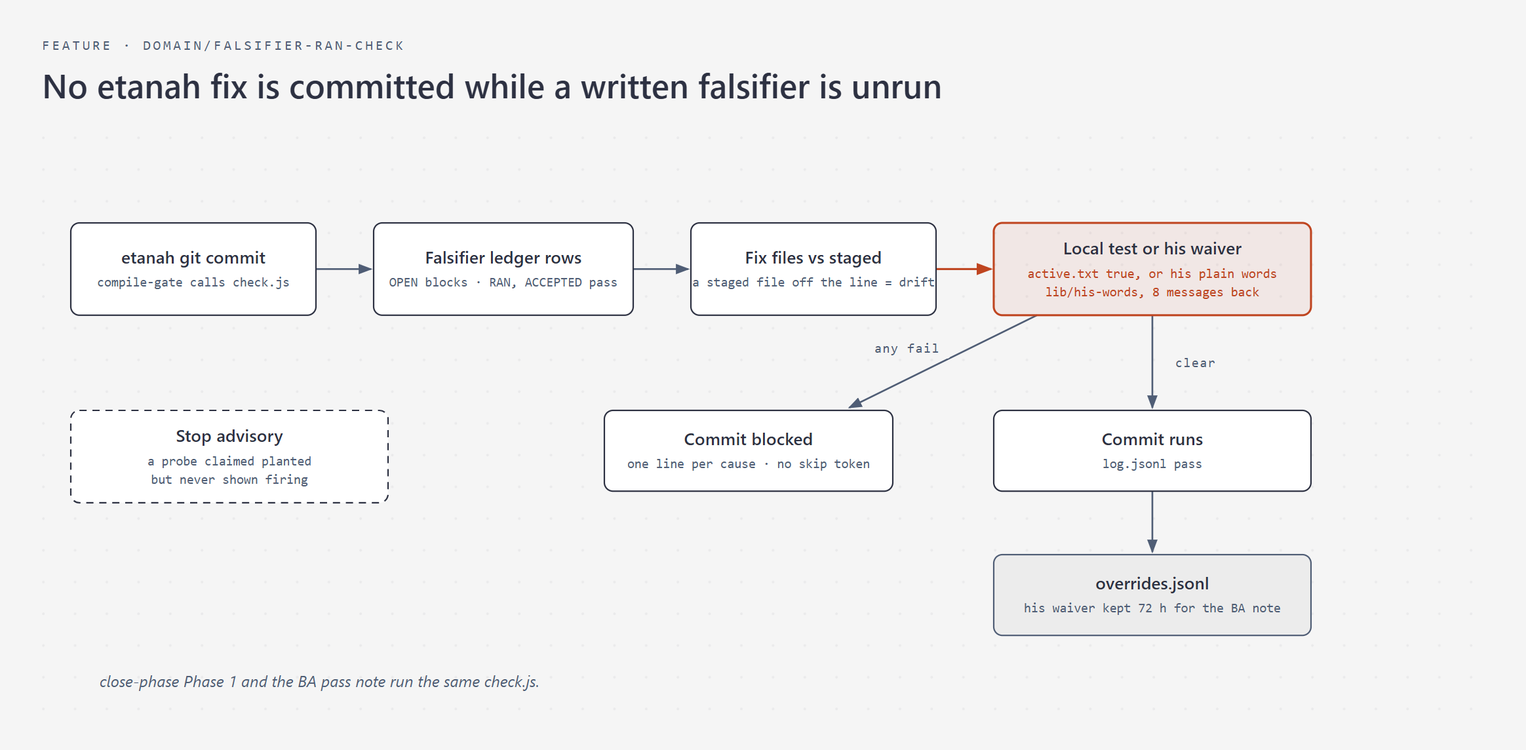
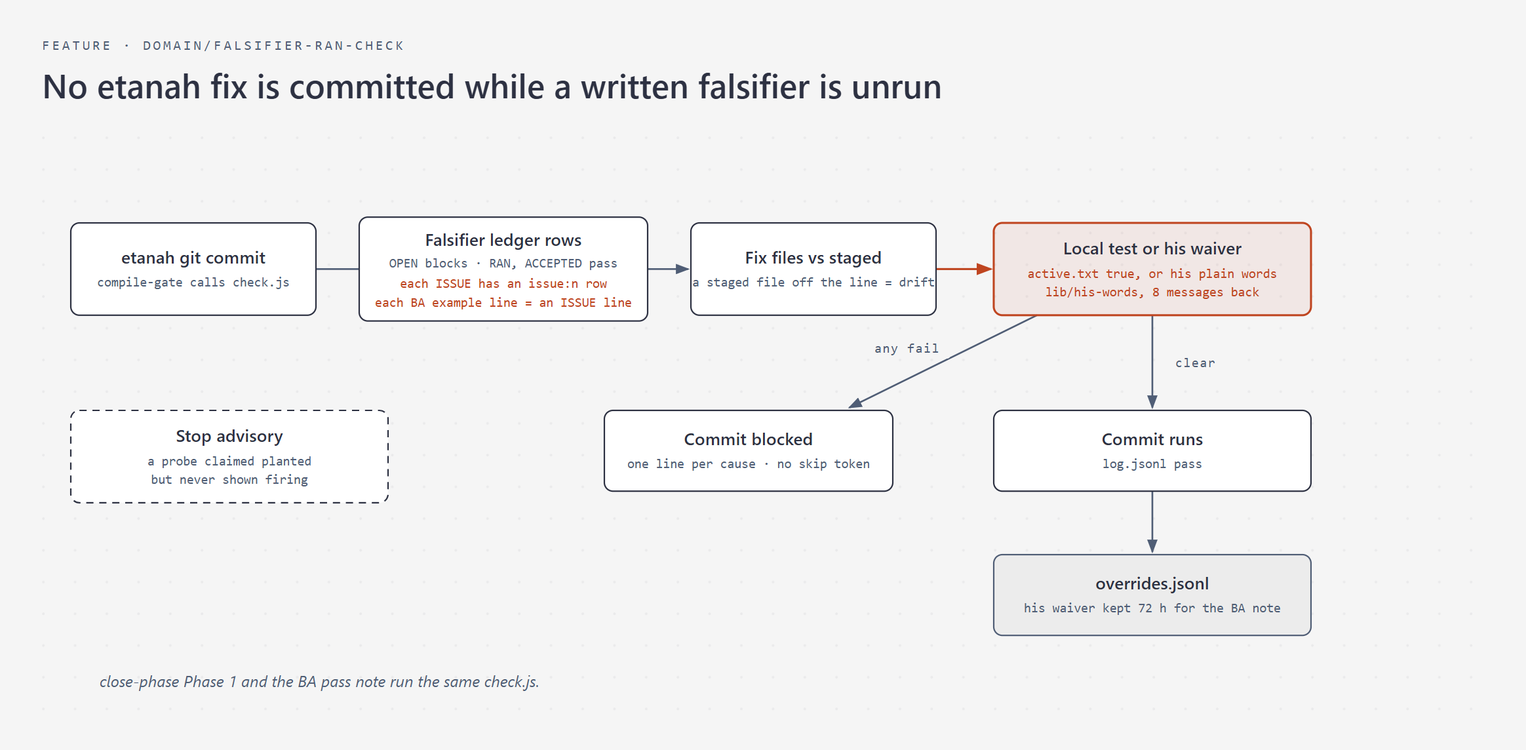
quest hand-back gap (261986): each ISSUE named by a ledger row, each BA example line its own ISSUE line; manifest reads every PDF note and the newest BA note in full (landed from d6f05947)

Changed region(s): [[0.2165, 0.2753, 0.433, 0.4283]]

diff --git a/domain/falsifier-ran-check/check.eval.js b/domain/falsifier-ran-check/check.eval.js
@@ -46,7 +46,7 @@ const RUBRIC = [
 const HEAD0 = '## Falsifier ledger\n\nFix files: BasePelupusanDokumenForm.java, MlkKertasTemplateForm.java\n\n| # | design | falsifier | cheapest test | status |\n|---|---|---|---|---|\n';
 const STAND = ['path', 'siblings', 'render', 'given', 'env'].map((k, i) => `| ${91 + i} | standing: ${k} | ${k} gap | ${k} run | RAN: ${k} checked on the BA ID, nothing found |\n`).join('');
 const HEAD = HEAD0 + STAND; // every ledger carries the five standing rows (2026-11-10)
-const row = (n, status, f) => `| ${n} | same-content compare | ${f || 'Word no-change save changes body XML beyond rsid/paraId'} | Word COM re-save of a template + compare | ${status} |\n`;
+const row = (n, status, f) => `| ${n} | issue:1 same-content compare | ${f || 'Word no-change save changes body XML beyond rsid/paraId'} | Word COM re-save of a template + compare | ${status} |\n`;
 const doc = body => fs.writeFileSync(DOC, RUBRIC + body);
 const cli = args => spawnSync(process.execPath, [CHECK, ...args], { encoding: 'utf8', env: { ...process.env, ...ENV }, timeout: 30000 });
 function transcript(name, entries) {
@@ -244,6 +244,48 @@ r = ev(GOOD0 + FIVE(RAN5, 'OPEN — after the deploy'), { needLedger: true, stan
 ok('S17 "OPEN — after the deploy" spelling waits too', r.fails.length === 0, kinds(r));
 active('true'); doc((HEAD + row(1, 'RAN: 2026-10-04 re-save run, compare unchanged')).replace('RAN: env checked on the BA ID, nothing found', 'OPEN: after deploy')); r = cli(['QA-244600']);
 ok('S18 cli clear line names the rows waiting after deploy', r.status === 0 && /1 waiting after deploy/.test(r.stdout), r.status + ' ' + r.stdout.slice(0, 160));
+
+// ── G4-G11 + X1-X5 (2026-11-17, 261986): each ISSUE named by a ledger row; each line of the BA's example block its own ISSUE line ──
+const R261 = '# QA-261986\n\nISSUE|1|item 3 format|JT row layout as BA example\nISSUE|2|item 6 at Penyediaan PTG|items 1-6 on first open\n\n';
+const ITEM6 = '| 1 | issue:2 regenerate on PTG first open | PSBS never meets the guard | read guard + MLIT ind_tgsn | RAN: guard needs PRMMKNPTG, present on MLIT PSBS |\n';
+const ev2 = (body, o) => C.evaluate(R261 + HEAD0 + body, Object.assign({ needLedger: true, standing: true, ctx: 'commit' }, o || {}));
+const GIVEN_SENT = 'RAN: ISSUE 2 fixed and tested; ISSUE 1 is still being checked';
+const FIVE2 = g => st(2, 'path', RAN5) + st(3, 'siblings', RAN5) + st(4, 'render', RAN5) + st(5, 'given', g || RAN5) + st(6, 'env', RAN5);
+r = ev2(ITEM6 + FIVE2(GIVEN_SENT));
+ok('G4 REPLAY 261986 (5 Nov): ISSUE 1 has no row, given says "still being checked" → issue-unanswered', kinds(r) === 'issue-unanswered' && /ISSUE 1 /.test(r.fails[0].msg), kinds(r));
+r = ev2(ITEM6 + '| 7 | issue:1 JT row layout | line break lost | doc-sim + PDF compare | OPEN |\n' + FIVE2());
+ok('G5 ISSUE 1 named by an OPEN row → open at the commit', kinds(r) === 'open', kinds(r));
+r = ev2(ITEM6 + '| 7 | issue:1 JT row layout | line break lost | doc-sim + PDF compare | OPEN |\n' + FIVE2(), { ctx: 'note' });
+ok('G5n same at the BA note → open', kinds(r) === 'open', kinds(r));
+r = ev2(ITEM6 + '| 7 | issue:1 JT row layout | line break lost | doc-sim | ACCEPTED-RISK: "pass item 6 first, item 3 next round" miya 2026-11-05 |\n' + FIVE2());
+ok('G5a ISSUE 1 row ACCEPTED-RISK with his words → passes', r.fails.length === 0, kinds(r));
+r = ev2('| 1 | issue:1,2 both items | gap | run | RAN: doc-sim both items on BA ID |\n' + FIVE2());
+ok('G6 clean: one row names issue:1,2 → passes', r.fails.length === 0, kinds(r));
+r = ev2('| 1 | issue:11 other | gap | run | RAN: doc-sim on the BA ID, output matched her example |\n| 2 | issue:2 x | gap | run | RAN: doc-sim on the BA ID, output matched her example |\n' + FIVE2());
+ok('G7 issue:11 does not answer ISSUE 1 → issue-unanswered ×1', kinds(r) === 'issue-unanswered', kinds(r));
+r = ev2(ITEM6 + FIVE2('RAN: n/a — no BA list on this ticket'));
+ok('G7b given RAN: n/a with a reason → no issue check', r.fails.length === 0, kinds(r));
+r = ev2(ITEM6 + FIVE2('OPEN'));
+ok('G7c given OPEN → only open, no issue-unanswered', kinds(r) === 'open', kinds(r));
+const BA6 = ['3.1 Majlis Bandaraya Melaka Bersejarah', '(Ruj. Surat : <No. Rujukan Surat> bertarikh <Tarikh Surat>)', '<Jabatan Teknikal> memaklumkan bahawa <Keputusan> terhadap permohonan ini.', 'Ulasan jabatan adalah seperti berikut:', 'JABATAN INI MENYOKONG DENGAN SYARAT. TEST 1'];
+const GOOD6 = '| 1 | issue:1,2 both | gap | run | RAN: doc-sim on the BA ID, output matched her example |\n' + FIVE2();
+r = ev2(GOOD6, { baLines: BA6 });
+ok('G8 REPLAY 261986: BA example lines, ISSUE 1 retyped as one line → given-line-missing (5)', kinds(r) === 'given-line-missing' && /5 line\(s\)/.test(r.fails[0].msg) && /3\.1 Majlis/.test(r.fails[0].msg), kinds(r) + ' ' + (r.fails[0] || {}).msg);
+const R6 = R261 + BA6.map((l, i) => `ISSUE|${i + 3}|item 3 example line ${i + 1}|${l}`).join('\n') + '\n\n';
+r = C.evaluate(R6 + HEAD0 + '| 1 | issue:1,2,3,4,5,6,7 all | gap | run | RAN: doc-sim on the BA ID, output matched her example |\n' + FIVE2(), { needLedger: true, standing: true, ctx: 'commit', baLines: BA6 });
+ok('G9 each example line is its own ISSUE line, named by a row → passes', r.fails.length === 0, kinds(r));
+const RJOIN = R261 + `ISSUE|3|l1|${BA6[0]}\nISSUE|4|l2+3|${BA6[1]} ${BA6[2]}\nISSUE|5|l4|${BA6[3]}\nISSUE|6|l5|${BA6[4]}\n\n`;
+r = C.evaluate(RJOIN + HEAD0 + '| 1 | issue:1,2,3,4,5,6 all | gap | run | RAN: doc-sim on the BA ID, output matched her example |\n' + FIVE2(), { needLedger: true, standing: true, ctx: 'commit', baLines: BA6 });
+ok('G10 lines 2 and 3 joined (the 5 Nov flattening) → given-line-missing (2)', kinds(r) === 'given-line-missing' && /2 line\(s\)/.test(r.fails[0].msg), kinds(r) + ' ' + (r.fails[0] || {}).msg);
+r = ev2(GOOD6, { baLines: [] });
+ok('G11 clean: no example block → passes', r.fails.length === 0, kinds(r));
+const J = (ts, who, role, notes) => `--- ${ts} by ${who} ---\n  [role] ${role}\n  notes:\n${notes.map(l => '    ' + l).join('\n')}\n\n`;
+const EXP = ['*Issue:*', '1) item 3 salah', '*Expected:*', '1) betul seperti contoh', '<pre>', '3.1 Majlis Bandaraya', '(Ruj. Surat : X bertarikh Y)', '<JT> memaklumkan bahawa Z', '</pre>', 'Session id:', '<pre>', 'not example', '</pre>'];
+ok('X1 <pre> under Expected → its 3 lines', C.exampleLines(J('2026-11-11T03:14:08Z', 'Nurul', 'BA', EXP)).length === 3, C.exampleLines(J('t', 'N', 'BA', EXP)));
+ok('X2 <pre> under Issue only → none', C.exampleLines(J('t', 'N', 'BA', ['*Issue:*', '<pre>', 'a line', '</pre>', '*Expected:*', 'words'])).length === 0);
+ok('X3 BA example older than our last note → none', C.exampleLines(J('t1', 'N', 'BA', EXP) + J('t2', 'Ridhwan', 'Developer', ['Salam, deployed'])).length === 0);
+ok('X4 <pre> in a Developer note → none', C.exampleLines(J('t', 'Ridhwan', 'Developer', EXP)).length === 0);
+ok('X5 <pre> after Session id → not counted (only the 3 under Expected)', C.exampleLines(J('t', 'N', 'BA', EXP)).every(l => l !== 'not example'));
 
 try { fs.rmSync(tmp, { recursive: true, force: true }); } catch (_) {}
 let failed = 0;

diff --git a/domain/falsifier-ran-check/check.js b/domain/falsifier-ran-check/check.js
@@ -50,6 +50,24 @@ const PLAIN_WAIVE_RX = new RegExp([
 ].join('|'), 'gi');
 const PLAIN_NEGATE_RX = /\b(?:don'?t|do not|never|not|cannot|can'?t|won'?t|jangan|tak|before|after|until|unless|if|whether)\b[^.?!\n]{0,30}$/i;
 const TICKET_NUM_RX = /(?<![\d/])\d{5,6}(?![\d/])/g;
+// The BA's example block of the current cycle: each non-empty line of a <pre> under an Expected marker, in a BA note
+// written after our last note (261986, 2026-11-05: a line break in her example was lost when it was retyped as one ISSUE line).
+const sq = s => String(s).replace(/\s+/g, ' ').trim();
+function exampleLines(history) {
+  const J = String(history || '').split(/^(?=--- \S+ by .+ ---\s*$)/m);
+  let from = 0; J.forEach((j, i) => { if (/^\s*\[role\]\s+Dev/mi.test(j) && /^\s*notes:\s*$/m.test(j)) from = i + 1; });
+  const out = [];
+  for (const j of J.slice(from)) {
+    if (!/^\s*\[role\]\s+BA\b/m.test(j)) continue;
+    let exp = false, pre = false;
+    for (const l of j.split(/\r?\n/)) {
+      if (/^\s*[*_+]*\s*(Issue|Session id)\b/i.test(l)) exp = false; else if (/^\s*[*_+]*\s*Expected\b/i.test(l)) exp = true;
+      if (/<\/?pre>/i.test(l)) { pre = /<pre>/i.test(l); continue; }
+      if (exp && pre && l.trim()) out.push(sq(l));
+    }
+  }
+  return [...new Set(out)];
+}
 
 // A worktree session shares the MAIN quest/active.txt and projects/ folder.
 function mainRoot(p) { return String(p).replace(/[\\/]\.claude[\\/]worktrees[\\/][^\\/]+[\\/]?$/i, ''); }
@@ -156,7 +174,16 @@ function evaluate(text, opts) {
   // A given row answered RAN writes its list first: one ISSUE|n|<item>|<expected> line per BA item and per value on the BA's file,
   // marked or not; the test table is counted against them (2026-11-17 per miya, 274323: an unmarked Wang Cagaran value was never read).
   const given = L.rows.find(r => /^[*`\s]*standing:\s*given\b/i.test(r.design || ''));
-  if (given && given.kind === 'ran' && !/RAN:\s*n\/?a\b/i.test(given.status) && !/^ISSUE\|\d+\|/m.test(String(text || ''))) fails.push({ kind: 'given-no-issues', msg: `row ${given.n} standing: given is RAN but the quest doc has no ISSUE|n|<item>|<expected> line: write one per BA item and per value on the BA's file, marked or not` });
+  const issueLines = String(text || '').match(/^ISSUE\|\d+\|.*$/mg) || [];
+  if (given && given.kind === 'ran' && !/RAN:\s*n\/?a\b/i.test(given.status)) {
+    if (!issueLines.length) fails.push({ kind: 'given-no-issues', msg: `row ${given.n} standing: given is RAN but the quest doc has no ISSUE|n|<item>|<expected> line: write one per BA item and per value on the BA's file, marked or not` });
+    // Each ISSUE owes a ledger row named issue:n (same shape as arrival:<id>), so a BA item not done is an OPEN row, never a sentence (261986).
+    for (const n of new Set(issueLines.map(s => s.split('|')[1]))) if (!L.rows.some(r => new RegExp('\\bissue:\\s*(?:\\d+\\s*,\\s*)*' + n + '\\b', 'i').test(r.design + ' ' + r.falsifier))) fails.push({ kind: 'issue-unanswered', msg: `ISSUE ${n} has no ledger row named issue:${n} (one row per BA item, several as issue:1,2): RAN with what was run, or miya's ACCEPTED-RISK` });
+    // Each line of the BA's example block is its own ISSUE line, in her words.
+    const exps = new Set(issueLines.map(s => sq(s.split('|').slice(3).join('|'))));
+    const miss = (o.baLines || []).filter(l => !exps.has(l));
+    if (miss.length) fails.push({ kind: 'given-line-missing', msg: `${miss.length} line(s) of the BA's example block are not ISSUE lines of their own, first: "${miss[0]}"` });
+  }
   if (o.staged && o.staged.length && !o.merge) {
     if (!L.fixFiles.length) fails.push({ kind: 'no-fix-files', msg: 'the ledger has no "Fix files:" line, so the staged files cannot be compared with the design' });
     else {
@@ -239,8 +266,10 @@ function check(qa, opts) {
     const doc = docFor(qa, block);
     const codeFix = ctx === 'commit' || !!o.codeFix;
     let res = { fails: [], rows: [], fixFiles: [] };
+    let baLines = [];   // the BA's example lines, from the ticket's own journal; no journal on this machine = no line check
+    try { baLines = exampleLines(fs.readFileSync(path.join(require(path.resolve(__dirname, '..', '..', 'lib', 'task-folder.js')).briefDir(block.task_folder), 'History.txt'), 'utf8')); } catch (_) {}
     if (!doc) { if (codeFix) res.fails.push({ kind: 'no-doc', msg: `no quest doc found for ${qa} (active.txt qa_doc=${block.qa_doc || '(empty)'})` }); }
-    else res = evaluate(fs.readFileSync(doc, 'utf8'), { needLedger: codeFix, staged: o.staged || null, merge: !!o.merge, ctx, standing: true });
+    else res = evaluate(fs.readFileSync(doc, 'utf8'), { needLedger: codeFix, staged: o.staged || null, merge: !!o.merge, ctx, standing: true, baLines });
     let override = null;
     if (codeFix || ctx === 'cli') {
       if (String(block.local_test_confirmed || '').toLowerCase() !== 'true') {
@@ -320,4 +349,4 @@ if (require.main === module) {
   process.exit(1);
 }
 
-module.exports = { check, evaluate, parseLedger, statusKind, gateCommit, captureOverride, recordedOverride, plainWaiver, message, ticketOf, mainRoot, readBlock, OVERRIDE_RX };
+module.exports = { check, evaluate, parseLedger, statusKind, gateCommit, captureOverride, recordedOverride, plainWaiver, message, exampleLines, ticketOf, mainRoot, readBlock, OVERRIDE_RX };

diff --git a/domain/falsifier-ran-check/diagram.html b/domain/falsifier-ran-check/diagram.html
@@ -41,9 +41,11 @@
       <rect x="20" y="60" width="170" height="64" rx="6" fill="#ffffff" stroke="#2d3142" stroke-width="1"/>
       <text x="105" y="88" fill="#2d3142" font-size="12" font-weight="600" font-family="'Segoe UI', Arial, sans-serif" text-anchor="middle">etanah git commit</text>
       <text x="105" y="104" fill="#4f5d75" font-size="9" font-family="Consolas, monospace" text-anchor="middle">compile-gate calls check.js</text>
-      <rect x="230" y="60" width="180" height="64" rx="6" fill="#ffffff" stroke="#2d3142" stroke-width="1"/>
-      <text x="320" y="88" fill="#2d3142" font-size="12" font-weight="600" font-family="'Segoe UI', Arial, sans-serif" text-anchor="middle">Falsifier ledger rows</text>
-      <text x="320" y="104" fill="#4f5d75" font-size="9" font-family="Consolas, monospace" text-anchor="middle">OPEN blocks · RAN, ACCEPTED pass</text>
+      <rect x="220" y="56" width="200" height="72" rx="6" fill="#ffffff" stroke="#2d3142" stroke-width="1"/>
+      <text x="320" y="76" fill="#2d3142" font-size="12" font-weight="600" font-family="'Segoe UI', Arial, sans-serif" text-anchor="middle">Falsifier ledger rows</text>
+      <text x="320" y="91" fill="#4f5d75" font-size="9" font-family="Consolas, monospace" text-anchor="middle">OPEN blocks · RAN, ACCEPTED pass</text>
+      <text x="320" y="105" fill="#bf4520" font-size="9" font-family="Consolas, monospace" text-anchor="middle">each ISSUE has an issue:n row</text>
+      <text x="320" y="118" fill="#bf4520" font-size="9" font-family="Consolas, monospace" text-anchor="middle">each BA example line = an ISSUE line</text>
       <rect x="450" y="60" width="170" height="64" rx="6" fill="#ffffff" stroke="#2d3142" stroke-width="1"/>
       <text x="535" y="88" fill="#2d3142" font-size="12" font-weight="600" font-family="'Segoe UI', Arial, sans-serif" text-anchor="middle">Fix files vs staged</text>
       <text x="535" y="104" fill="#4f5d75" font-size="9" font-family="Consolas, monospace" text-anchor="middle">a staged file off the line = drift</text>

diff --git a/quest/ticket-load-verify.eval.js b/quest/ticket-load-verify.eval.js
@@ -306,6 +306,19 @@ const baList = { ts: '2026-11-04T09:01:34Z', by: 'Eval BA', lines: ['  [role] BA
     check('(22) B3 no BA list yet → no ⚠, said in the line; --json carries patchScope', /0 ⚠ · no BA list naming a permohonan yet$/.test(scopeOut(r.out)) && j.patchScope && j.patchScope.warn === 0 && j.patchScope.rows.length === 4, scopeOut(r.out));
 }
 
+// (23) 261986 (2026-11-17): a note written after our last note prints every line, older notes keep one line
+{
+    const note = (...l) => ['  notes:', ...l.map(x => '    ' + x)];
+    const root = fixture({ status: 'Rework', cycles: [], entries: [
+        { ts: '2026-11-03T07:00:25Z', by: 'Nurul Amirah Nadiah', lines: note('Salam Ridhwan,', 'old ask second line') },
+        { ts: '2026-11-05T07:23:35Z', by: 'Ahmad Ridhwan Anuar (Dev PLP)', lines: note('Salam Mira, deployed.', 'Item 3 still being checked') },
+        { ts: '2026-11-11T03:14:08Z', by: 'Nurul Amirah Nadiah', lines: note('Salam Ridhwan,', '*Expected:*', '<pre>', '3.1 Majlis Bandaraya', '</pre>', '+*NOTE*+', 'Pending test for item 6') },
+    ] });
+    const r = run(root);
+    check('(23) newest BA note after our last note prints in full', /\| \*Expected:\*/.test(r.out) && /\| 3\.1 Majlis Bandaraya/.test(r.out) && /\| Pending test for item 6/.test(r.out), r.out.slice(0, 600));
+    check('(23b) notes before our last note keep their one line', !/old ask second line/.test(r.out) && !/\| Item 3 still being checked/.test(r.out), r.out.slice(0, 600));
+}
+
 let failed = 0;
 for (const x of results) { if (!x.pass) failed++; console.log((x.pass ? 'PASS' : 'FAIL') + '  ' + x.name + (x.pass ? '' : ' → ' + x.detail)); }
 console.log('\nticket-load-verify.eval: ' + (results.length - failed) + '/' + results.length + ' green');

diff --git a/quest/ticket-load-verify.js b/quest/ticket-load-verify.js
@@ -379,13 +379,16 @@ L.push(`\u2550\u2550\u2550 TICKET LOAD MANIFEST \u2014 #${num} \u2550\u2550\u255
 L.push(`folder : ${folder}${archived ? '   [ARCHIVED]' : ''}`);
 L.push(`synced : ${syncedAt || 'unknown'}   ·   ticket last updated: ${lastUpdated || 'unknown'}`);
 L.push('');
-L.push(`A. CONVERSATIONS \u2014 ${journals.length} journal entr${journals.length === 1 ? 'y' : 'ies'} (oldest first). Echo one line each.`);
+L.push(`A. CONVERSATIONS \u2014 ${journals.length} journal entr${journals.length === 1 ? 'y' : 'ies'} (oldest first). Echo one line each; a note after our last note prints in full ("| " lines).`);
+const lastDevNote = journals.reduce((k, j, i) => (j.hasNotes && /^Dev/i.test(roleTagOf(j.author)) ? i : k), -1);
 journals.forEach((j, i) => {
     const tags = [];
     if (j.hasNotes) tags.push('notes');
     if (j.attachments.length) tags.push(`attach:${j.attachments.join(', ')}`);
     L.push(`   A${i + 1}. ${j.ts}  ${j.author} [${roleTagOf(j.author)}]  [${tags.join(' · ') || 'attr-only'}]`);
-    L.push(`        ${firstNote(j)}`);
+    // A note written after our last note is the live ask: every line of it, never the first line only (261986: Expected, example, REMARK unseen).
+    if (i > lastDevNote && j.hasNotes && !/^Dev/i.test(roleTagOf(j.author))) j.body.slice(j.body.findIndex(l => /^\s*notes:\s*$/.test(l)) + 1).filter(l => l.trim()).forEach(l => L.push(`        | ${l.trim()}`));
+    else L.push(`        ${firstNote(j)}`);
 });
 L.push('');
 L.push(`B. DESCRIPTION \u2014 ${fs.existsSync(descPath) ? `${fs.statSync(descPath).size} bytes` : 'MISSING'}. Echo its Isu + Expected verbatim, WITH the author and role below.`);

diff --git a/lib/redmine-role.eval.js b/lib/redmine-role.eval.js
@@ -107,6 +107,10 @@ const hNewerDev = H(
 s = R.specFromHistory(hNewerDev, 'melaka');
 check('S14 newest list by a developer: the BA list stays the spec, with a pointer', s.issue.isSpec && s.issue.block.items[0] === '1. ba item' && /newer Issue list by Ahmad Ridhwan Anuar, Developer, 2026-09-05T01:00:00Z/.test(R.newerLine('issue', s.issue)), R.newerLine('issue', s.issue));
 
+// S15 (261986, 2026-11-17): a BA who numbers her list "1)" has a list
+s = R.specFromHistory(H({ ts: '2026-11-11T03:14:08Z', by: 'Nurul Amirah Nadiah', lines: ['*Issue:*', '1) item 3 format salah', '', '*Expected:*', '1) format sama seperti contoh', ''] }), 'melaka');
+check('S15 "1)" numbering is a list (BA spec found, items read)', s.issue && s.issue.isSpec && s.issue.block.items.length === 1 && s.expected && s.expected.isSpec, s.issue && R.headline('issue', s.issue));
+
 const hSplit = H(
   { ts: '2026-09-02T01:00:00Z', by: 'Nurhafizah Hasan', lines: list('Issue', 'ba issue') },
   { ts: '2026-09-03T01:00:00Z', by: 'Amila Qistina Rohizat', lines: list('Expected', 'tso expected') },

diff --git a/lib/redmine-role.js b/lib/redmine-role.js
@@ -36,7 +36,7 @@ const STALE_DAYS = 7;
 // A login shared by a team: the role is right, the person is not known from the name.
 const SHARED_RX = /^(?:itso\b|tso\b|hlp_|help_)|\badmin$/i;
 const STAMP_RX = /^---\s*(\S+)\s+by\s+(.+?)\s*---\s*$/;
-const ITEM_RX = /^\s*(\d+)\.\s+(.+\S)\s*$/;
+const ITEM_RX = /^\s*(\d+)[.)]\s+(.+\S)\s*$/; // "1." and "1)" (261986: a BA writing "1)" read as no list)
 
 function statesLib() { try { return require('./states.js'); } catch (_) { return null; } }
 function norm(s) { return String(s == null ? '' : s).replace(/\s+/g, ' ').trim().toLowerCase(); }

diff --git a/quest/pdf-annotations.py b/quest/pdf-annotations.py
@@ -44,4 +44,4 @@ for p in sys.argv[1:]:
         out.append(read(p))
     except Exception as e:  # reported by the caller as an integrity problem
         out.append({"file": p, "error": "%s: %s" % (type(e).__name__, e)})
-print(json.dumps(out, ensure_ascii=False))
+print(json.dumps(out))  # ASCII escapes: under python -I the console codepage (cp1252) cannot print every note (261986, 2026-11-17)

diff --git a/.claude/skills/quest/SKILL.md b/.claude/skills/quest/SKILL.md
@@ -573,8 +573,8 @@ When Quest skill calls Skill tool for a sub-skill and the call FAILS (skill not 
 - **🚨 Falsifier ledger — a written falsifier is a debt until it is RUN (HARD RULE, 2026-10-04 per みや, #244600).** Each Rubric falsifier is one row of `## Falsifier ledger` in `QA-<num>.md`: `| # | design | falsifier | cheapest test | status |`, plus one `Fix files:` line naming every file of the fix. Status = `OPEN` · `RAN: <what was run, what it showed>` · `BROKE: <evidence> → row N` (the falsifier fired; row N is the replacement design's row) · `ACCEPTED-RISK: "<みや's words>" miya YYYY-MM-DD` · `SUPERSEDED: row N`.
   - **Run the cheapest test yourself, before the hand-back for local test, whenever it needs no JBoss** (a script, a SELECT, a file compare). For a falsifier about a document's fill or a Word save, the cheapest test is `→ Skill: doc-sim` (no JBoss, 1.5 to 2 minutes cold, 12 to 15 s per step in `chain` or `--warm`).
   - **Design changed after the Rubric** (a new candidate · a candidate moved from another module to ours · a new file in the diff) → rewrite the rows for the design as it is NOW and update `Fix files:` BEFORE Apply. A falsifier follows the IDEA, not the owner it was first written for.
-  - **Five standing rows, in every ledger (2026-11-10 per みや, after the replay of 59 Melaka reworks: path 13 · siblings 13 · render 11 · given 7 · env 5).** The Rubric writes them in every ledger, numbered after its own rows, `OPEN` (the template shows the shape); they are never deleted, and the check fails any ledger that lacks one of them. **path**: with the BA's own ID and scenario, walk past the first error to the last langkah; save, then reload. **siblings**: every screen, template, variant, tugasan, holder and caller that shares the changed thing. **render**: print the real document and compare its text and its layout (position, spacing, alignment) with the BA's file. **given**: every BA item, attachment, mockup and linked ticket is answered; it is answered by first writing one `ISSUE|n|<item>|<expected>` line in the quest doc per BA item and per value on the BA's file, marked or not (2026-11-17 per みや, 274323: Wang Cagaran 1,200 sat unmarked on Mira's file and was never read), and the test table gets one Where row per line (test-scenario-login-gate v6). **env**: the fix is on every env the BA tests, and it is checked that it landed. Each one ends `RAN: <what was run, what it showed>` or `RAN: n/a — <why this ticket has none>`; **env** stays `OPEN: after deploy` at the commit and is written `RAN:` right after the merge to the env branch (the branch holds the commit, the data rows are there per env); **path** on a fast-path fix stays `OPEN: after deploy` until his server test is written. `OPEN: after deploy` passes the commit and close-phase step 1 and blocks the BA note. A new cycle, a changed design or a `BROKE → row N` sets the five back to `OPEN`. **Banned**: deleting a standing row · `RAN: n/a` with no reason · a standing row answered from the diff alone · `RAN:` on a run not done · `OPEN: after deploy` on siblings, render or given, or on path when the fix is not on the fast path.
-  - **Enforced** by `node domain/falsifier-ran-check/check.js <QA>` at three points: the etanah commit gate (blocks on an OPEN row other than a standing `OPEN: after deploy`, a missing standing row, a staged file missing from `Fix files:`, or `local_test_confirmed` ≠ true) · `close-phase` Phase 1 step 1 · `ticket-close-block.js --ba`. There is no skip token. Only みや's own `[risk-ok: <num> <reason>]` clears the local test; only a run (`RAN:` with evidence, or `RAN: n/a — <reason>` on a standing row) or his ACCEPTED-RISK clears a row.
+  - **Five standing rows, in every ledger (2026-11-10 per みや, after the replay of 59 Melaka reworks: path 13 · siblings 13 · render 11 · given 7 · env 5).** The Rubric writes them in every ledger, numbered after its own rows, `OPEN` (the template shows the shape); they are never deleted, and the check fails any ledger that lacks one of them. **path**: with the BA's own ID and scenario, walk past the first error to the last langkah; save, then reload. **siblings**: every screen, template, variant, tugasan, holder and caller that shares the changed thing. **render**: print the real document and compare its text and its layout (position, spacing, alignment) with the BA's file. **given**: every BA item, attachment, mockup and linked ticket is answered; it is answered by first writing one `ISSUE|n|<item>|<expected>` line in the quest doc per BA item and per value on the BA's file, marked or not (2026-11-17 per みや, 274323: Wang Cagaran 1,200 sat unmarked on Mira's file and was never read), and the test table gets one Where row per line (test-scenario-login-gate v6); each ISSUE number is named by a ledger row `issue:n` (several as `issue:1,2`), so a BA item not done is an OPEN row that only a run or his ACCEPTED-RISK clears, never a "still being checked" sentence; each line of a BA example block (`<pre>` under her Expected) is an ISSUE line of its own, in her words, so a line break she drew is never retyped away (2026-11-17 per みや, 261986: handed back Resolved with item 3 open, her two-line example flattened to one). **env**: the fix is on every env the BA tests, and it is checked that it landed. Each one ends `RAN: <what was run, what it showed>` or `RAN: n/a — <why this ticket has none>`; **env** stays `OPEN: after deploy` at the commit and is written `RAN:` right after the merge to the env branch (the branch holds the commit, the data rows are there per env); **path** on a fast-path fix stays `OPEN: after deploy` until his server test is written. `OPEN: after deploy` passes the commit and close-phase step 1 and blocks the BA note. A new cycle, a changed design or a `BROKE → row N` sets the five back to `OPEN`. **Banned**: deleting a standing row · `RAN: n/a` with no reason · a standing row answered from the diff alone · `RAN:` on a run not done · `OPEN: after deploy` on siblings, render or given, or on path when the fix is not on the fast path.
+  - **Enforced** by `node domain/falsifier-ran-check/check.js <QA>` at three points: the etanah commit gate (blocks on an OPEN row other than a standing `OPEN: after deploy`, a missing standing row, an ISSUE with no `issue:n` row (`issue-unanswered`), a BA example line with no ISSUE line of its own (`given-line-missing`), a staged file missing from `Fix files:`, or `local_test_confirmed` ≠ true) · `close-phase` Phase 1 step 1 · `ticket-close-block.js --ba`. There is no skip token. Only みや's own `[risk-ok: <num> <reason>]` clears the local test; only a run (`RAN:` with evidence, or `RAN: n/a — <reason>` on a standing row) or his ACCEPTED-RISK clears a row.
   - **Banned**: a falsifier that lives only in Rubric prose · `RAN:` with no evidence · marking a row SUPERSEDED to get past the gate · writing ACCEPTED-RISK without his quoted words.
   - **Example** (#244600): "Falsifier C1 — a Word no-change save changes body XML beyond rsid/paraId" was written for the common candidate; the same compare then shipped on OUR side; the row was never carried over or run; BA failed the fix. The run took 5 minutes.
   - **A commit or deploy order is not ACCEPTED-RISK (2026-10-20, #285252).** Write ACCEPTED-RISK only when his words accept THAT falsifier's risk. Cycle 1 of #285252 recorded his "Commit … and deploy to internal so BA can test." as acceptance of falsifier 1 ("a pre-filled row fails the tab's save"); BA then failed it on screen.
@@ -859,3 +859,5 @@ ode domain/doc-sim/doc-sim.eval.js.*
 *2026-11-11 — BPMN + Scope row gains one sentence pointing a next-tugasan answer to `bpmn-check` J12, per みや (242553). Link, not a copy; every clause of the row kept.*
 
 *2026-11-17 — standing row **given** answered by writing one `ISSUE|n|<item>|<expected>` line per BA item and per value on the BA's file, marked or not; `falsifier-ran-check` fails a given RAN with no ISSUE line (`given-no-issues`, eval 82/82). Per みや ("Yes, build it"), audit of 274323: Wang Cagaran 1,200 sat unmarked on Mira's file and was never read. Additive: the five standing rows and every other rule unchanged.*
+
+*2026-11-17 — falsifier ledger `given` row: each ISSUE named by a row `issue:n`, each line of a BA example block an ISSUE line of its own (`falsifier-ran-check` kinds `issue-unanswered`, `given-line-missing`; check.eval 99/99; replay of the 261986 5 Nov hand-back blocks at commit and note). Per みや ("run system-upgrade system-change to audit built this and eval and verify"), audit by Fable 5.2 xhigh. Manifest fixes in the same change: every PDF note readable (quest/pdf-annotations.py), a note after our last note printed in full, "1)" lists read (lib/redmine-role.js). Additive; every existing clause kept.*

diff --git a/.claude/skills/quest/QA-NNN-template.md b/.claude/skills/quest/QA-NNN-template.md
@@ -184,11 +184,11 @@ Fix files: <File1.java>, <File2.xhtml>
 
 | # | design | falsifier | cheapest test | status |
 |---|---|---|---|---|
-| 1 | <chosen fix, one line> | <data shape that proves it wrong> | <the 5-minute run that would show it> | OPEN |
+| 1 | issue:<n> <chosen fix, one line> | <data shape that proves it wrong> | <the 5-minute run that would show it> | OPEN |
 | 2 | standing: path | a langkah, choice or role after the fix still fails or loses the value | with the BA's own ID and scenario, walk past the first error to the last langkah; save, then reload | OPEN |
 | 3 | standing: siblings | another screen, template, variant, tugasan, holder or caller shares the changed thing and is not fixed | list every sharer (grep / codegraph) and check each one | OPEN |
 | 4 | standing: render | the printed document differs from the BA's expected file | print the real document for the BA's own ID and compare its text and its layout (position, spacing, alignment) with the BA's file (`doc-sim`) | OPEN |
-| 5 | standing: given | a BA item, attachment, mockup or linked ticket is not answered | tick every one against the fix | OPEN |
+| 5 | standing: given | a BA item, attachment, mockup or linked ticket is not answered | write one ISSUE line per BA item, per value on her file and per line of her example block; name each ISSUE in a row as issue:n | OPEN |
 | 6 | standing: env | the fix is missing on an env the BA tests | check the branch and the data on every env the BA tests | OPEN |
 
 ---

diff --git a/domain/falsifier-ran-check/README.md b/domain/falsifier-ran-check/README.md
@@ -112,3 +112,4 @@ log: `domain/falsifier-ran-check/log.jsonl` (ts · qa · ctx cli/commit/note · 
 - 2026-10-04 ledger check added per miya (#244600). Spec preservation: the Stop advisory is untouched (its eval 7/7).
 - 2026-10-29 the local-test waiver is read through `lib/his-words.js` (his messages, 8 back, until a later hold; app lines never his) per system-rules Rule 8. Fixtures 28 flipped, 28b + 28c added; check.eval 58/58. Diagram added (Rule 17).
 - 2026-11-17 `given-no-issues`: a standing given row answered RAN (not n/a) needs at least one `ISSUE|n|<item>|<expected>` line in the quest doc. Per miya after the 274323 audit (unmarked Wang Cagaran value). check.eval 82/82 (G1 replay, G2 n/a, G3 OPEN).
+- 2026-11-17 `issue-unanswered` + `given-line-missing`: with given RAN (not n/a), each ISSUE number must be named by a ledger row `issue:n`, and each line of the BA's example block (`<pre>` under Expected, in a BA note after our last note, read from the Task folder History.txt) must be an ISSUE line of its own. Per miya after the 261986 audit (Fable 5.2 xhigh): the 5 Nov hand-back went Resolved with item 3 open and her two-line example retyped as one. check.eval 99/99 (G4-G11, X1-X5); replay of the 5 Nov state blocks at commit and note. Holes: a false RAN sentence, an example only in a PDF note or image, a journal absent on this machine (line check quiet).

diff --git a/daily-diary/current/2026-11-17.md b/daily-diary/current/2026-11-17.md
@@ -42,3 +42,5 @@ The release itself went well. The friction was at the hand-over to a person: who
 He should not have to ask for the message to the person who does the next step. Now the script writes it.
 
 I also learned to hold a closed ticket when PROD still owes it a step. I would rather keep 281324 open one more day than archive a PROD job nobody will see.
+
+- QA-261986 rework audit (Fable 5.2 xhigh) + system-build: falsifier-ran-check now blocks a hand-back when an ISSUE has no issue:n row or a BA example line is not its own ISSUE line; manifest reads every PDF note, prints the newest BA note in full, reads 1) lists. BA's 11 Nov rework = line break only (my first reply overstated it as 3 faults; corrected).
